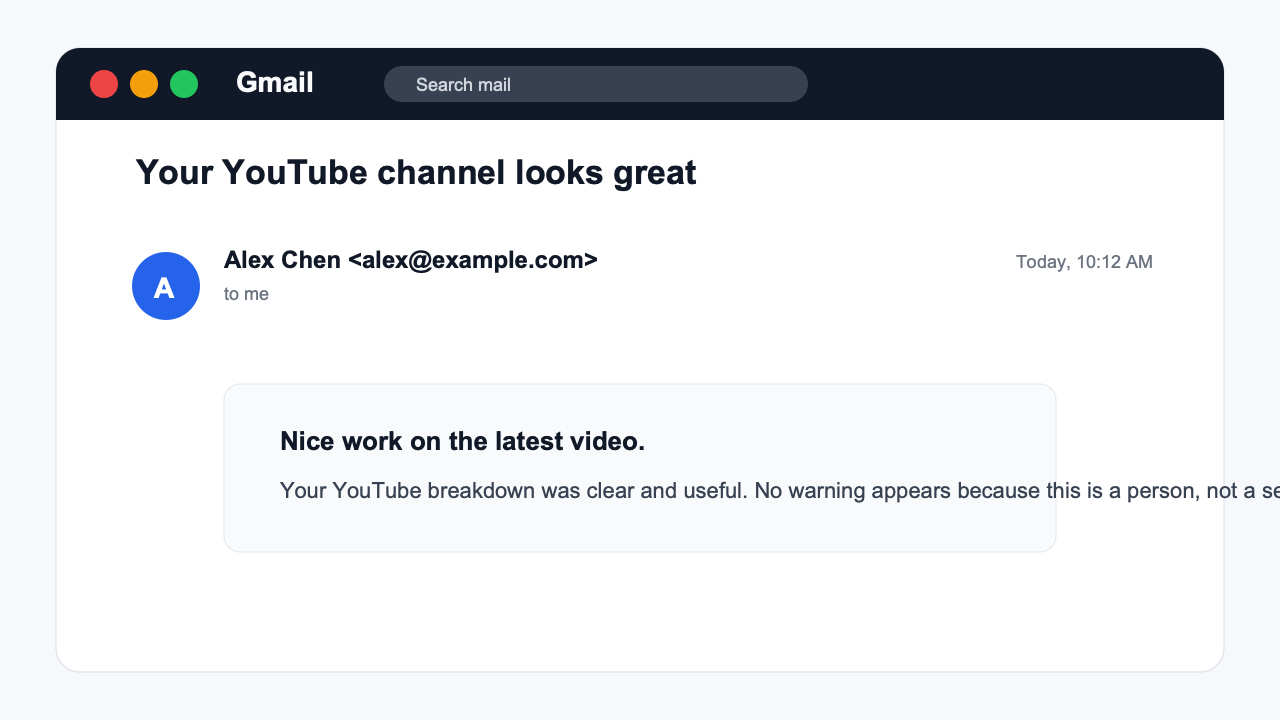
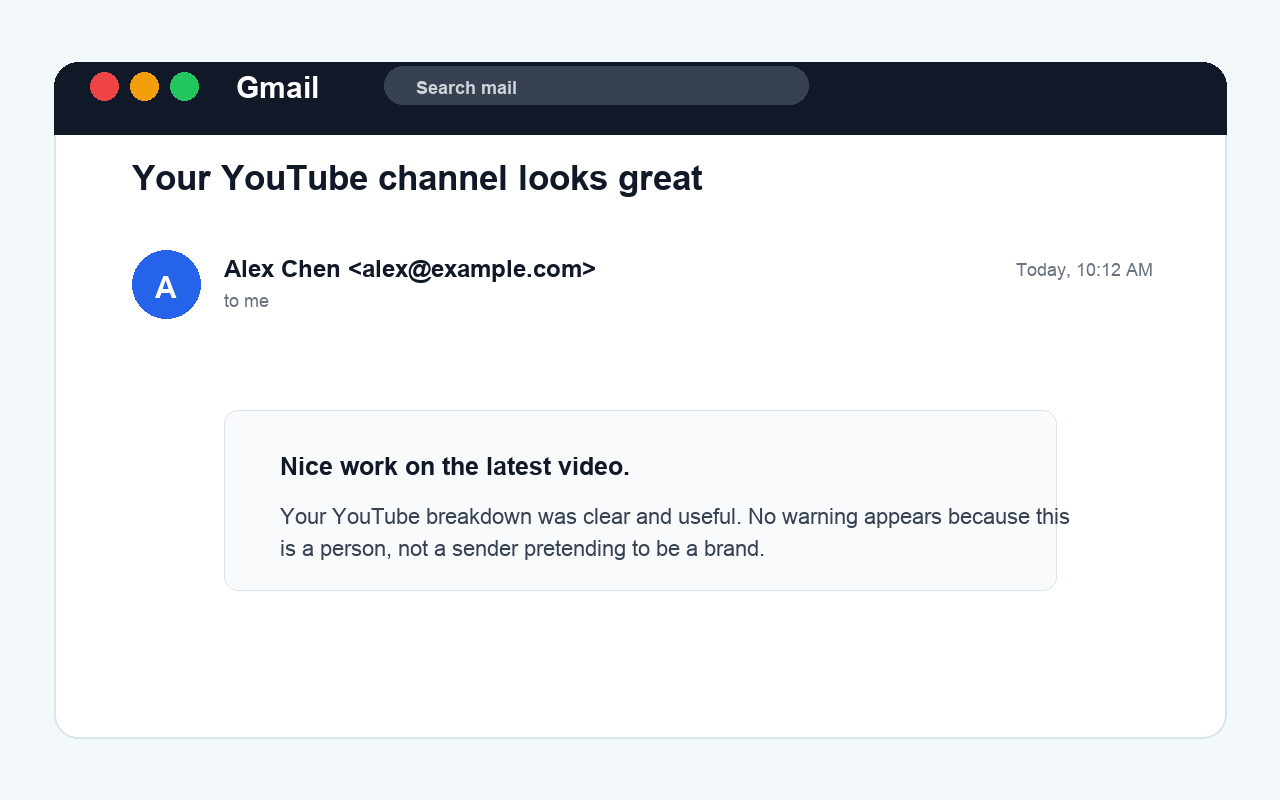
Add store-ready screenshots and v2 plan (#16)

diff --git a/apps/chrome-extension/tests/store-readiness.test.ts b/apps/chrome-extension/tests/store-readiness.test.ts
@@ -21,7 +21,10 @@ const requiredAssets = [
   "apps/chrome-extension/assets/icon-128.png",
   "docs/assets/store/gmail-warning.png",
   "docs/assets/store/popup-before-permission.png",
-  "docs/assets/store/gmail-normal-message.png"
+  "docs/assets/store/gmail-normal-message.png",
+  "docs/assets/store/chrome-web-store/gmail-warning-1280x800.jpg",
+  "docs/assets/store/chrome-web-store/popup-before-permission-1280x800.jpg",
+  "docs/assets/store/chrome-web-store/gmail-normal-message-1280x800.jpg"
 ];
 
 function readLowercase(path: string): string {

diff --git a/docs/plans/2026-06-14-005-feat-browser-link-phishing-protection-plan.md b/docs/plans/2026-06-14-005-feat-browser-link-phishing-protection-plan.md
@@ -1,0 +1,336 @@
+---
+title: "feat: Add browser link phishing protection"
+type: "feat"
+date: "2026-06-14"
+---
+
+# feat: Add browser link phishing protection
+
+## Summary
+
+Expand Phish Guard from Gmail-only warnings into browser-first phishing protection for suspicious links and pages. V2 should warn on sketchy web pages, let users check pasted links from texts or DMs, and keep Gmail protection working through the same local detector pipeline.
+
+---
+
+## Problem Frame
+
+The Bloomberg/Calendly incident shows the next product gap. The phishing attempt started outside Gmail, in a message thread, then pushed the user to a fake Calendly-like site at `calendly.bloombergpartner.net`. V1 would miss it because it only runs inside Gmail.
+
+The useful v2 product is not "read every app." A Chrome extension cannot safely inspect Messages, DMs, or arbitrary native app surfaces. The practical v2 is browser-first: when a user lands on a suspicious page, right-clicks a suspicious link, or pastes a URL copied from another app, Phish Guard explains the risk before the user signs in or schedules.
+
+This changes the privacy boundary. Local URL and page heuristics can stay in-browser, but live domain age checks need network calls to registration-data services. The plan keeps those as an explicit opt-in layer rather than silently weakening the current local-first promise.
+
+---
+
+## Scope Boundaries
+
+### In scope
+
+- Browser page warnings for suspicious current pages after user interaction or granted site access.
+- Manual URL checker in the popup for links copied from texts, DMs, Slack, or email.
+- Context-menu checks for links, selected text, and the current page.
+- Detector support for URL/page impersonation evidence, not just email sender evidence.
+- Optional live domain intelligence for domain age and registration signals.
+- Privacy and store-copy updates that clearly separate local checks from optional network checks.
+
+### Deferred for later
+
+- Native Messages, WhatsApp, Instagram DM, or X DM scanning.
+- Screenshot OCR as an input surface.
+- Backend reputation scoring or telemetry.
+- Automatic blocking/interstitials before navigation.
+- A full brand-claim ML model.
+
+### Outside this product's identity
+
+- Saying a site is definitely malicious when evidence only supports "suspicious."
+- Submitting URLs or page content to third-party AI services by default.
+- Requesting `<all_urls>` page access as the default install path.
+
+---
+
+## Requirements
+
+**User experience**
+
+- R1. Users can paste a URL into the popup and get a clear risk explanation without granting broad website access.
+- R2. Users can right-click a link, selected text, or page and run a Phish Guard check from the browser context menu.
+- R3. When the user checks the active page, Phish Guard can show a warning banner or side panel explaining suspicious evidence.
+- R4. The Bloomberg/Calendly example warns because the registrable domain is `bloombergpartner.net`, while the page and path imply Bloomberg and Calendly.
+- R5. The UI must distinguish "be careful" from "confirmed phishing" and show the strongest 2-4 evidence items.
+
+**Detection**
+
+- R6. The detector supports URL-only inputs with destination URL, visible link text, selected text, page title, and optional page snippets.
+- R7. The detector identifies brand-in-domain and brand-in-page mismatches such as `calendly.bloombergpartner.net` presenting as Bloomberg or Calendly.
+- R8. The detector normalizes URLs through a shared parser that extracts protocol, hostname, registrable domain, subdomain labels, path, and query signals.
+- R9. Local heuristics flag URL shorteners, punycode, misleading subdomains, login/oauth prompts, invite/scheduling language, and suspicious brand combinations.
+- R10. Optional live intelligence can add domain age and registration evidence without changing the local-only default.
+
+**Privacy and permissions**
+
+- R11. The default install should avoid `<all_urls>`, `history`, `tabs`, `webRequest`, cookies, and page capture permissions.
+- R12. Page checks should use `activeTab` and `scripting` after a user gesture when possible.
+- R13. Context-menu checks should use URL or selection data directly before injecting into the page.
+- R14. Any live domain intelligence must be disclosed as contacting public registration services with the domain being checked.
+- R15. Gmail protection must remain optional and scoped to `https://mail.google.com/*`.
+
+**Quality and launch**
+
+- R16. Existing Gmail tests and detector corpus evaluations must keep passing.
+- R17. Tests must cover phishing, safe, limited-evidence, and delegated-platform cases for URL/page inputs.
+- R18. README, privacy policy, popup copy, and store packet must describe browser link protection without overstating coverage.
+
+---
+
+## Key Technical Decisions
+
+- KTD1. Browser-first v2, not native-app scanning: Chrome can protect the page the user opens and let them paste links from Messages, which is shippable without OS-level access.
+- KTD2. Reuse the detector package with new input types: keep `packages/detector` platform-neutral, and add URL/page analysis beside `analyzeMessage`.
+- KTD3. Use `activeTab` for current-page checks: Chrome documents `activeTab` as temporary access after a user gesture, which avoids persistent all-site access for the core feature.
+- KTD4. Add `contextMenus` for user-initiated link checks: Chrome exposes `linkUrl`, `pageUrl`, and `selectionText` to context-menu handlers, which fits the "check this suspicious thing" interaction.
+- KTD5. Keep live domain age optional: RDAP provides machine-readable registration data, but fetching it sends the checked domain to an outside service.
+- KTD6. Do not use `declarativeNetRequest` for v2 warnings: it is useful for declarative blocking/modification, but this product needs explanation and evidence before blocking.
+- KTD7. Prefer a side panel for detailed results and an inline banner for urgent page risk: popup is good for paste checks, while page-level warnings need persistent explanation after the popup closes.
+
+---
+
+## High-Level Technical Design
+
+```mermaid
+flowchart TB
+  Inputs["URL, page, Gmail message"] --> Adapters["Surface adapters"]
+  Adapters --> UrlParser["Shared URL parser"]
+  UrlParser --> Detector["packages/detector"]
+  Detector --> Evidence["Risk result + evidence"]
+  Evidence --> Popup["Popup manual checker"]
+  Evidence --> Context["Context-menu result"]
+  Evidence --> PageBanner["Page warning banner"]
+  Evidence --> GmailBanner["Existing Gmail banner"]
+  Detector -. optional .-> DomainIntel["RDAP/domain intelligence"]
+```
+
+```mermaid
+flowchart TB
+  TextMessage["User receives suspicious link in Messages"] --> Open["User opens link in Chrome"]
+  Open --> Action["Clicks Phish Guard or right-clicks page"]
+  Action --> ActiveTab["Temporary activeTab access"]
+  ActiveTab --> Extract["Extract URL, title, visible brand signals, sign-in prompt"]
+  Extract --> Score["Run local URL/page detector"]
+  Score --> Warn["Show: domain does not match Bloomberg or Calendly"]
+  Score -. opt-in .-> Age["Add domain-age evidence from RDAP"]
+```
+
+---
+
+## Implementation Units
+
+### U1. Add shared URL and page analysis primitives
+
+**Goal:** Give the detector a platform-neutral way to analyze suspicious URLs and page claims.
+
+**Requirements:** R4, R6, R7, R8, R9, R17
+
+**Files:**
+
+- `packages/detector/src/url-analysis.ts`
+- `packages/detector/src/domain-match.ts`
+- `packages/detector/src/brand-rules.ts`
+- `packages/detector/src/evidence.ts`
+- `packages/detector/src/index.ts`
+- `packages/detector/tests/url-analysis.test.ts`
+- `packages/detector/fixtures/corpus/phishing.json`
+- `packages/detector/fixtures/corpus/safe.json`
+- `scripts/evaluate-detector-corpus.mjs`
+
+**Approach:** Add an `analyzeUrl` or `analyzePage` entry point that accepts URL, visible link text, selected text, page title, and optional visible page text. Keep this separate from `analyzeMessage` so Gmail email evidence does not leak into browser-page assumptions. Reuse `domainMatchesAny`, brand rules, shortener rules, and lookalike-domain companion words where possible.
+
+**Test scenarios:**
+
+- `https://calendly.bloombergpartner.net/` with page text claiming Bloomberg and Calendly returns `suspicious`.
+- `https://scheduling.bloomberg.com/` with Bloomberg scheduling text returns `safe` or `limited_evidence`.
+- `https://calendly.com/example/30min` with neutral invite text does not warn solely because it is a scheduling page.
+- Punycode or mixed-script domains return warning evidence.
+- A URL shortener with no visible brand claim returns `limited_evidence`, not a strong warning.
+- A trusted brand subdomain passes when it matches an explicit brand rule.
+
+**Verification:** `npm test -- packages/detector/tests/url-analysis.test.ts` and `npm run eval:detector`.
+
+### U2. Add manual URL checker to the popup
+
+**Goal:** Let users check links copied from Messages, DMs, or any app without granting broad page access.
+
+**Requirements:** R1, R5, R6, R11, R14, R18
+
+**Files:**
+
+- `apps/chrome-extension/src/popup/popup.html`
+- `apps/chrome-extension/src/popup/popup.ts`
+- `apps/chrome-extension/tests/popup-url-checker.test.ts`
+- `apps/chrome-extension/tests/permission-flow.test.ts`
+- `apps/chrome-extension/tests/store-readiness.test.ts`
+- `PRIVACY.md`
+
+**Approach:** Add a compact input field and "Check link" action to the existing popup. Run local analysis immediately. If live domain intelligence is disabled, show a local-only explanation. If enabled, show a second "Check domain age" action with privacy copy before making any network request.
+
+**Test scenarios:**
+
+- Pasting the Bloomberg/Calendly URL shows a suspicious result with registrable-domain mismatch evidence.
+- Pasting a malformed URL shows a clear "could not parse" state.
+- Pasting a known safe URL shows a calm safe/limited-evidence state.
+- Manual checking does not request Gmail permission.
+- The popup remains usable at 352px width with long URLs and long domains.
+
+**Verification:** `npm test -- apps/chrome-extension/tests/popup-url-checker.test.ts`.
+
+### U3. Add context-menu checks for links, selected text, and pages
+
+**Goal:** Make "check this suspicious thing" one right-click away.
+
+**Requirements:** R2, R5, R6, R11, R12, R13
+
+**Files:**
+
+- `apps/chrome-extension/manifest.json`
+- `apps/chrome-extension/src/background/context-menu.ts`
+- `apps/chrome-extension/src/background/service-worker.ts`
+- `apps/chrome-extension/src/background/permissions.ts`
+- `apps/chrome-extension/tests/context-menu.test.ts`
+- `apps/chrome-extension/tests/manifest-permissions.test.ts`
+
+**Approach:** Add the `contextMenus` permission and register menu items for link, selection, page, and action contexts. For link checks, use `info.linkUrl` without injecting content. For selected text, extract the first URL-like token. For page checks, use `pageUrl` first and escalate to `activeTab` only when page title or visible text is needed.
+
+**Test scenarios:**
+
+- Right-clicking a link analyzes `linkUrl` without requesting host permission.
+- Right-clicking selected text containing a URL extracts and analyzes that URL.
+- Right-clicking a page analyzes `pageUrl` and opens the result UI.
+- Manifest tests allow `contextMenus` and `activeTab` but still fail on `<all_urls>`, `history`, `tabs`, `webRequest`, cookies, and `pageCapture`.
+- Service worker initialization is idempotent when Chrome restarts the worker.
+
+**Verification:** `npm test -- apps/chrome-extension/tests/context-menu.test.ts apps/chrome-extension/tests/manifest-permissions.test.ts`.
+
+### U4. Add current-page risk extraction and warning UI
+
+**Goal:** Warn when a user lands on a page that appears to impersonate a brand or trusted workflow.
+
+**Requirements:** R3, R4, R5, R7, R9, R12, R17
+
+**Files:**
+
+- `apps/chrome-extension/src/content/page-content.ts`
+- `apps/chrome-extension/src/content/page-dom.ts`
+- `apps/chrome-extension/src/ui/page-warning.ts`
+- `apps/chrome-extension/src/ui/page-warning.css`
+- `apps/chrome-extension/tests/page-dom.test.ts`
+- `apps/chrome-extension/tests/page-warning.test.ts`
+- `apps/chrome-extension/tests/content-integration.test.ts`
+
+**Approach:** Add a page adapter that reads a bounded set of visible signals after a user-triggered check: URL, title, headings, visible button text, favicon alt data where accessible, and link/button labels near sign-in or scheduling flows. Do not scrape full page text by default. Render a page warning near the top of the page or open a side-panel-style result if injecting a banner would be too intrusive.
+
+**Test scenarios:**
+
+- A fake Calendly/Bloomberg fixture with "Sign In with X" and scheduling copy warns.
+- A legitimate scheduling page fixture does not warn merely because it asks for sign-in.
+- A page with no brand claim and a suspicious-looking domain returns limited evidence.
+- Warning UI renders once, updates in place, and removes cleanly after a new check.
+- Long domains wrap without overflowing the banner.
+
+**Verification:** `npm test -- apps/chrome-extension/tests/page-dom.test.ts apps/chrome-extension/tests/page-warning.test.ts apps/chrome-extension/tests/content-integration.test.ts`.
+
+### U5. Add optional domain intelligence provider
+
+**Goal:** Support high-signal evidence like "domain created two days ago" without making network checks the default.
+
+**Requirements:** R10, R14, R17, R18
+
+**Files:**
+
+- `packages/detector/src/domain-intelligence.ts`
+- `packages/detector/tests/domain-intelligence.test.ts`
+- `apps/chrome-extension/src/background/domain-intelligence.ts`
+- `apps/chrome-extension/tests/domain-intelligence.test.ts`
+- `docs/privacy/threat-model.md`
+- `PRIVACY.md`
+
+**Approach:** Define a small `DomainIntelligenceProvider` interface with inputs and outputs limited to domain-level data. Start with a disabled default provider and fixture-backed tests. If live lookup ships, call RDAP only for the registrable domain after the user opts in. Cache domain-level results locally with a short TTL and never send full URLs, page content, selected text, or email data.
+
+**Test scenarios:**
+
+- Fixture domain created two days ago adds warning evidence.
+- Fixture old trusted domain adds neutral evidence.
+- Provider failure degrades to local-only results.
+- Live lookup path receives only `bloombergpartner.net`, not `https://calendly.bloombergpartner.net/...`.
+- Privacy tests fail if URL paths, query strings, selected text, or page body are passed to the provider.
+
+**Verification:** `npm test -- packages/detector/tests/domain-intelligence.test.ts apps/chrome-extension/tests/domain-intelligence.test.ts`.
+
+### U6. Update privacy, README, and store posture for v2
+
+**Goal:** Make the public trust story match the new browser-link surface before shipping.
+
+**Requirements:** R11, R14, R15, R18
+
+**Files:**
+
+- `README.md`
+- `PRIVACY.md`
+- `docs/privacy/threat-model.md`
+- `docs/privacy/permissions.md`
+- `docs/store/chrome-web-store-submission.md`
+- `docs/store/dashboard-answers.md`
+- `apps/chrome-extension/tests/store-readiness.test.ts`
+
+**Approach:** Update copy from "inside Gmail" to "inside Gmail and suspicious browser links" only after the feature exists. Add permission copy for `activeTab` and `contextMenus`. If live RDAP is enabled, explain that domain-only checks contact public registration services and can be turned off.
+
+**Test scenarios:**
+
+- Store-readiness test asserts README mentions Gmail and browser link checks after v2 ships.
+- Store-readiness test asserts privacy docs name each permission and data boundary.
+- Privacy boundary tests assert Gmail protection remains scoped to `mail.google.com`.
+- Manual review confirms the README does not imply native Messages or DM scanning.
+
+**Verification:** `npm test -- apps/chrome-extension/tests/store-readiness.test.ts apps/chrome-extension/tests/privacy-boundary.test.ts`.
+
+---
+
+## Acceptance Examples
+
+- AE1. Bloomberg/Calendly text scam: Given a user opens `https://calendly.bloombergpartner.net/`, when they run Phish Guard on the page, then the result warns that the page claims trusted scheduling/brand context but the registrable domain is `bloombergpartner.net`.
+- AE2. Paste-only check: Given the same URL copied from Messages, when the user pastes it into the popup, then Phish Guard warns without asking for Gmail or all-site access.
+- AE3. Legit scheduling link: Given a normal Calendly link on `calendly.com`, when checked, then Phish Guard does not warn solely because the page is a calendar invite.
+- AE4. Local-only mode: Given live domain intelligence is off, when a user checks a suspicious URL, then the result uses only local evidence and does not contact RDAP or other external services.
+- AE5. Live domain intelligence: Given the user enables domain-age checks, when a suspicious registrable domain is newly registered, then the result includes domain-age evidence and labels it as an external lookup.
+- AE6. Gmail regression: Given a suspicious Gmail message, when Gmail warnings are enabled, then the existing inline Gmail banner still appears and does not depend on the browser-link feature.
+
+---
+
+## System-Wide Impact
+
+The main impact is the permission and privacy model. V1 only asks for optional Gmail host access. V2 adds user-triggered browser checks, which should lean on `activeTab`, `contextMenus`, and local popup input rather than broad host permissions. This keeps the extension credible: users get protection beyond Gmail without granting constant access to every site.
+
+The detector also becomes less email-shaped. `MessageMetadata` can remain, but the package should expose a sibling URL/page analysis contract so future inputs such as OCR or reported links do not need to fake email messages.
+
+---
+
+## Risks & Dependencies
+
+- **Permission creep:** Browser protection can tempt `<all_urls>`. Keep broad host access out of v2 unless a later plan proves it is necessary.
+- **False positives on legitimate partner domains:** Real brands use agencies and scheduling tools. Require multiple evidence signals before showing a strong warning.
+- **Live intelligence availability:** RDAP responses vary by registry and can fail. Treat it as supplemental evidence, not a hard dependency.
+- **Chrome Web Store review:** New permissions and network lookups require updated dashboard answers and privacy copy.
+- **UI trust:** A warning tool that looks noisy will train users to ignore it. Keep copy short and evidence-based.
+
+---
+
+## Sources / Research
+
+- Existing Gmail extension architecture: `apps/chrome-extension/manifest.json`, `apps/chrome-extension/src/background/permissions.ts`, `apps/chrome-extension/src/content/gmail-content.ts`, `apps/chrome-extension/src/ui/banner.ts`.
+- Existing detector architecture: `packages/detector/src/risk-score.ts`, `packages/detector/src/domain-match.ts`, `packages/detector/tests/risk-score.test.ts`.
+- Existing privacy boundary: `PRIVACY.md`, `docs/privacy/threat-model.md`.
+- Prior consumer Chrome-extension plan: `docs/plans/2026-06-06-002-feat-consumer-inline-phishing-warning-plan.md`.
+- Chrome `activeTab` documentation: `https://developer.chrome.com/docs/extensions/develop/concepts/activeTab`.
+- Chrome `contextMenus` documentation: `https://developer.chrome.com/docs/extensions/reference/api/contextMenus`.
+- Chrome `permissions` documentation: `https://developer.chrome.com/docs/extensions/reference/api/permissions`.
+- Chrome `declarativeNetRequest` documentation: `https://developer.chrome.com/docs/extensions/reference/api/declarativeNetRequest`.
+- RDAP overview: `https://about.rdap.org/`.

diff --git a/docs/store/release-checklist.md b/docs/store/release-checklist.md
@@ -17,7 +17,7 @@ Use this checklist before submitting to Chrome Web Store, publishing a GitHub pr
 - Confirm `apps/chrome-extension/manifest.json` has the intended name, version, description, and permissions.
 - Confirm `apps/chrome-extension/manifest.json` includes 16, 32, 48, and 128 pixel icons.
 - Confirm no broad permissions were added, especially `<all_urls>`, `cookies`, `webRequest`, or Gmail API OAuth scopes.
-- Confirm store screenshots exist under `docs/assets/store/`.
+- Confirm Chrome Web Store screenshots exist under `docs/assets/store/chrome-web-store/`.
 
 ## Build And Test
 
@@ -59,6 +59,7 @@ Use a test Gmail account when possible.
 - Use `docs/store/review-notes.md` for reviewer-facing notes.
 - Use `docs/store/chrome-web-store-submission.md` for listing copy and permission justification.
 - Upload `dist/phish-guard-chrome-extension.zip`.
+- Use the `1280x800` JPEG screenshots in `docs/assets/store/chrome-web-store/`.
 - Use fake/test screenshots only.
 - Submit as unlisted first.
 - After approval, replace the GitHub ZIP install path in `README.md` with the listing URL.

diff --git a/docs/store/chrome-web-store-submission.md b/docs/store/chrome-web-store-submission.md
@@ -107,9 +107,12 @@ If the dashboard treats local page processing as "website content" access, expla
 
 Prepared assets:
 
-- `docs/assets/store/popup-before-permission.png`
-- `docs/assets/store/gmail-warning.png`
-- `docs/assets/store/gmail-normal-message.png`
+- `docs/assets/store/chrome-web-store/popup-before-permission-1280x800.jpg`
+- `docs/assets/store/chrome-web-store/gmail-warning-1280x800.jpg`
+- `docs/assets/store/chrome-web-store/gmail-normal-message-1280x800.jpg`
+
+These are Chrome Web Store-safe `1280x800` JPEGs. The PNG files in
+`docs/assets/store/` are source assets for repo/docs reuse.
 
 Any additional screenshots must use test accounts and fake messages only. Do not include real private email.
 
